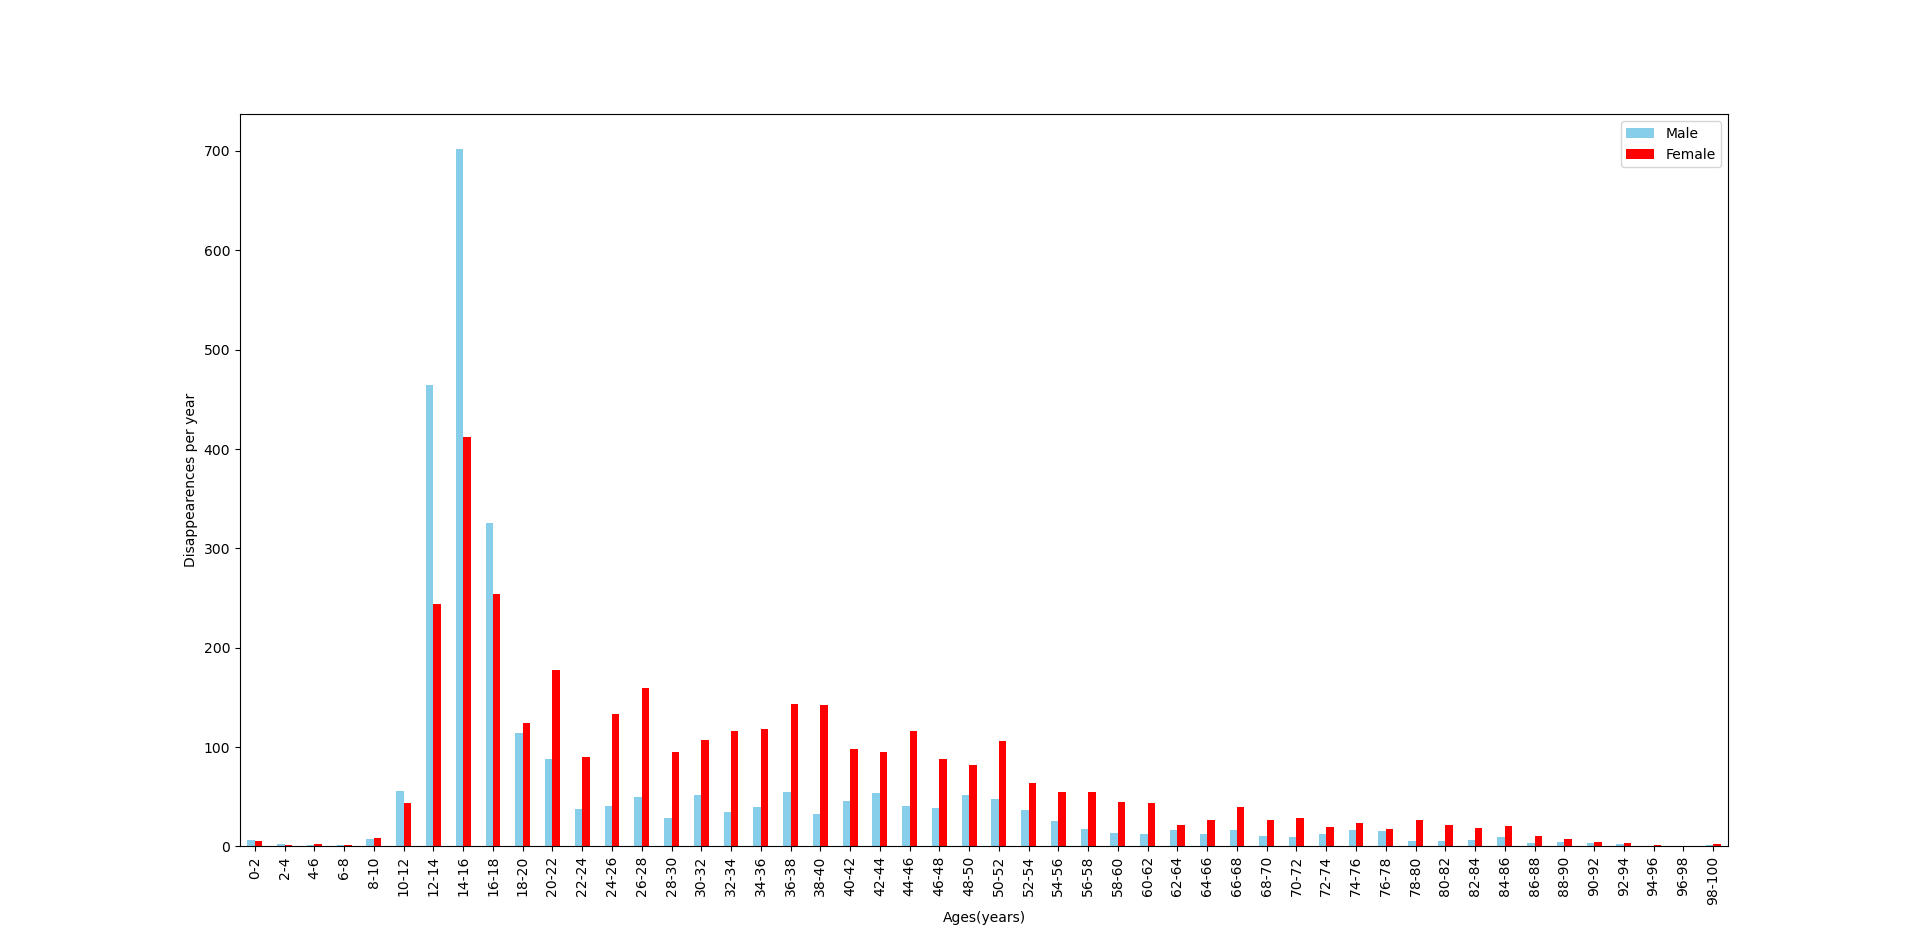
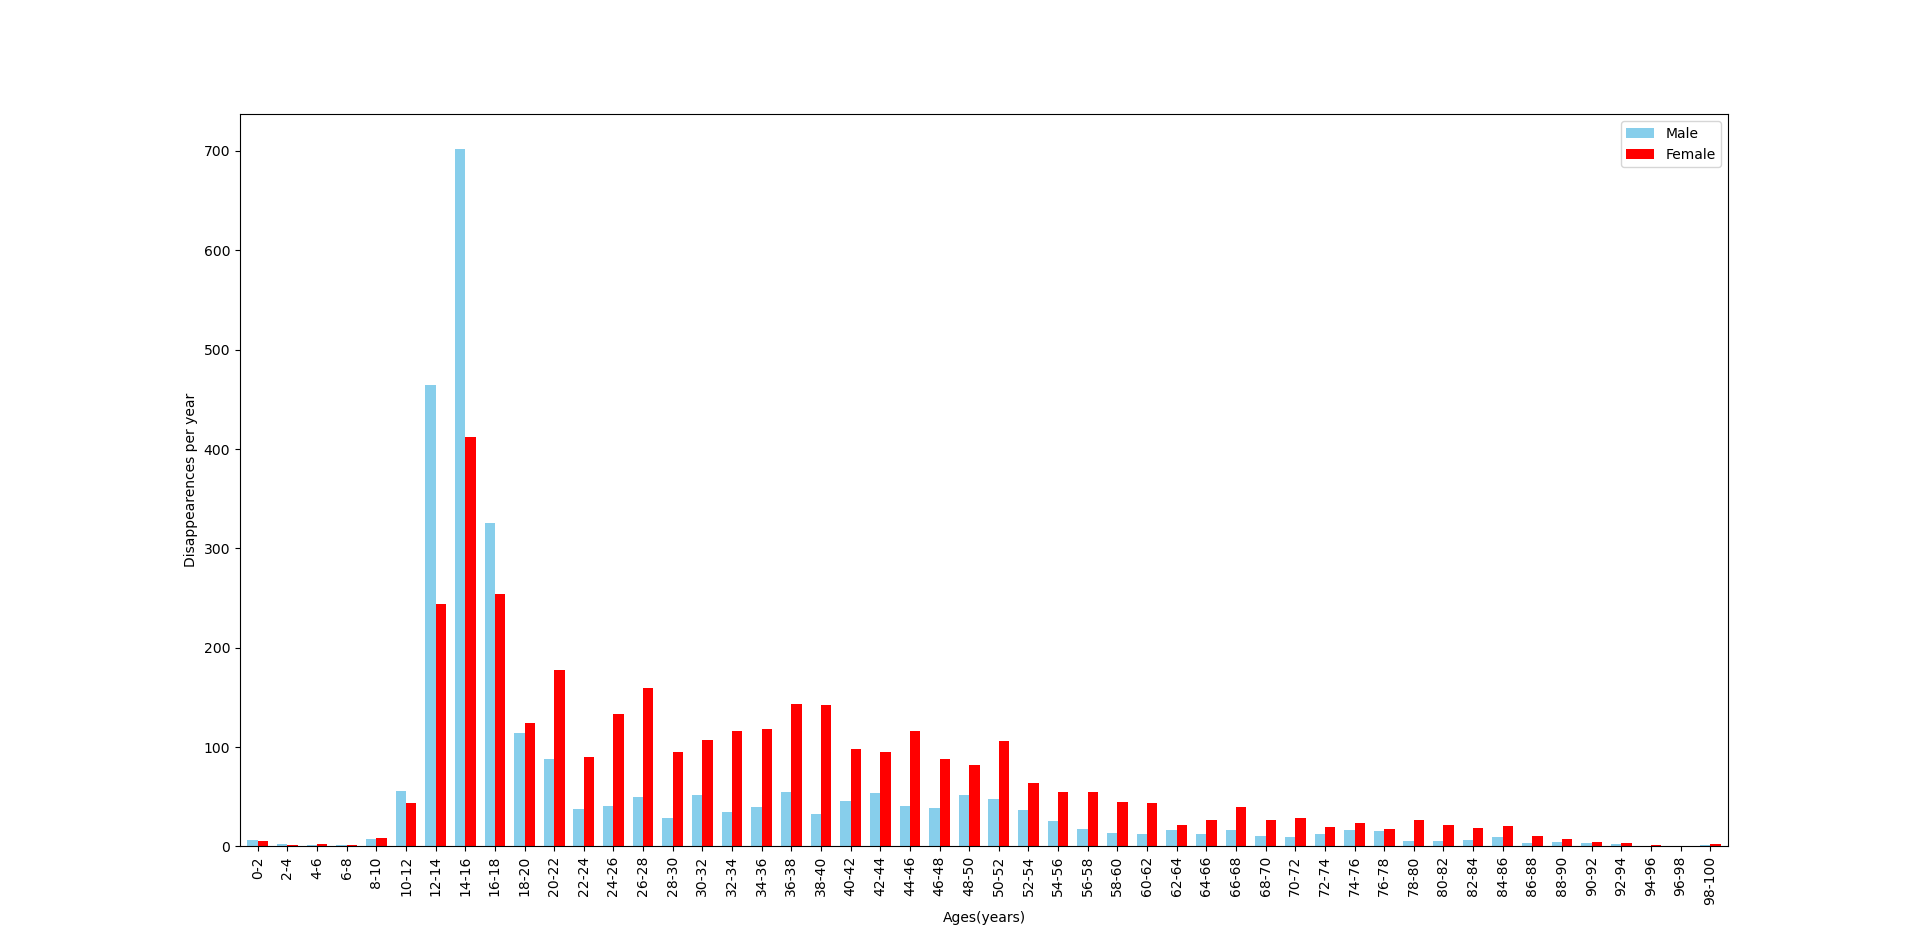
minor changes

Changed region(s): [[0.125, 0.4269, 0.9062, 0.9453]]

diff --git a/Robert/anal_script.py b/Robert/anal_script.py
@@ -73,7 +73,12 @@ for i in range(0,50):
     counts += 2
 age_df2 = age_df2.set_index("Age")
 #%% PLOT BAR PLOT
-age_df2.plot(kind='bar',ylabel ='Disappearences per year', xlabel = 'Ages(years)', stacked=False, color=['skyblue', 'red'])
+age_df2.plot(kind='bar',
+             width = 0.7,
+             ylabel ='Disappearences per year', 
+             xlabel = 'Ages(years)', 
+             stacked=False, 
+             color=['skyblue', 'red'])
 #%% HISTO
 plt.figure()
 plt.xlabel('Age (years)')
@@ -85,11 +90,10 @@ plt.legend()
 plt.show()
 #%% PIE
 
-plt.pie(disap_data["sexe"].value_counts())
+plt.pie(disap_data["sexe"].value_counts(),
+        wedgeprops=dict(width=0.5),
+        autopct='%1.0f%%')
 plt.legend(labels1)
-#%%
-
-print(disap_data.loc[disap_data["sexe"]=='Home'])
 
 #%% MAPS, GEOPANDAS
 import geopandas as gpd
@@ -109,9 +113,12 @@ RP_TERRES_DE_EBRE = ["Ribera d'Ebre", "Terra Alta","Baix Ebre", "Montsià"]
 RP_PONENT = ['Segrià', 'Garrigues', "Pla d'Urgell", "Urgell","Segarra", "Noguera"]
 RP_PIRINEU_OCCIDENTAL = ["Pallars Jussà","Alt Urgell", "Pallars Sobirà", "Alta Ribagorça", "Val d'Aran", "Cerdanya"]
 
+#list with all comarques
+
 comarques = RP_METROPOLITANA_NORD + RP_GIRONA + RP_CENTRAL + RP_METROPOLITANA_SUD\
     + RP_CAMP_DE_TARRAGONA + RP_TERRES_DE_EBRE + RP_PONENT + RP_PIRINEU_OCCIDENTAL
-    
+
+#dictionary of comarques sorted by RP
 comarq_dict = {'RP METROPOLITANA NORD':RP_METROPOLITANA_NORD, 
                "RP GIRONA":RP_GIRONA, 'RP CENTRAL':RP_CENTRAL, "RP METROPOLITANA SUD":RP_METROPOLITANA_SUD,
                "RP CAMP DE TARRAGONA":RP_CAMP_DE_TARRAGONA, 
@@ -123,6 +130,7 @@ for value in cat["NOMCOMAR"]:
     if value not in comarques :
         print(value)
 
+#we will add a row to the original geopandas dataframe with the RPs
 com_list = []
 ind = 0
 print(len(cat["NOMCOMAR"]))
@@ -147,7 +155,7 @@ for comarca in cat["NOMCOMAR"]:
                 break
             
 #%%
-#cat.insert(11, 'RP', com_list)
+#cat.insert(11, 'RP', com_list) #Activate in 1st run
 cat["RP"] = com_list
 print(cat["NOMCOMAR"].value_counts())
 print(disap_data["regi_policial"].value_counts())
